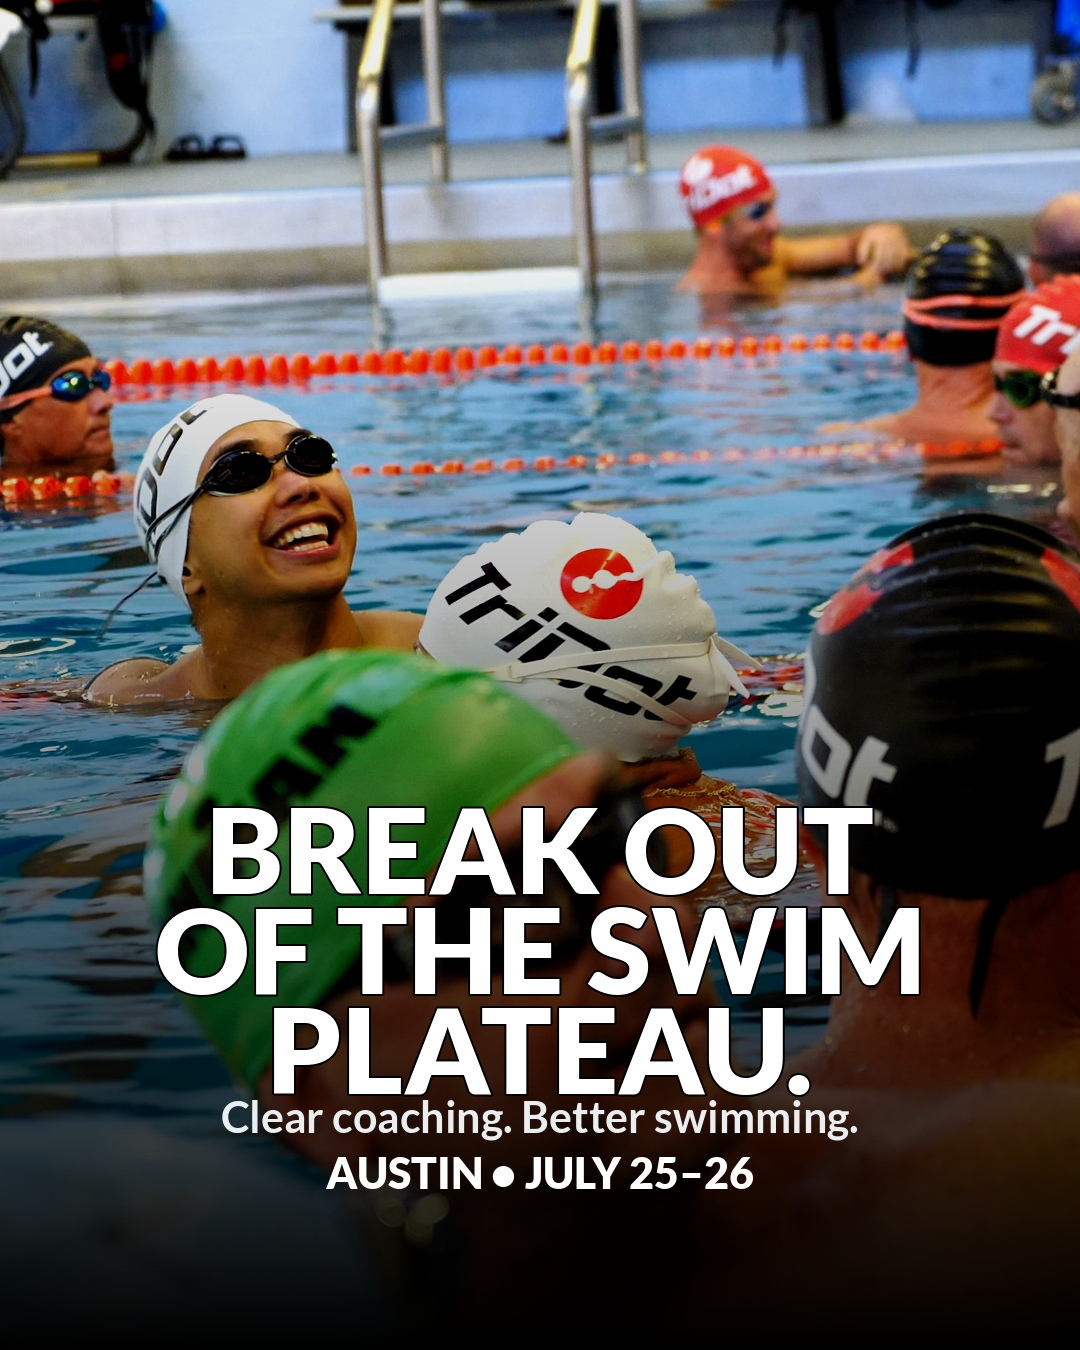
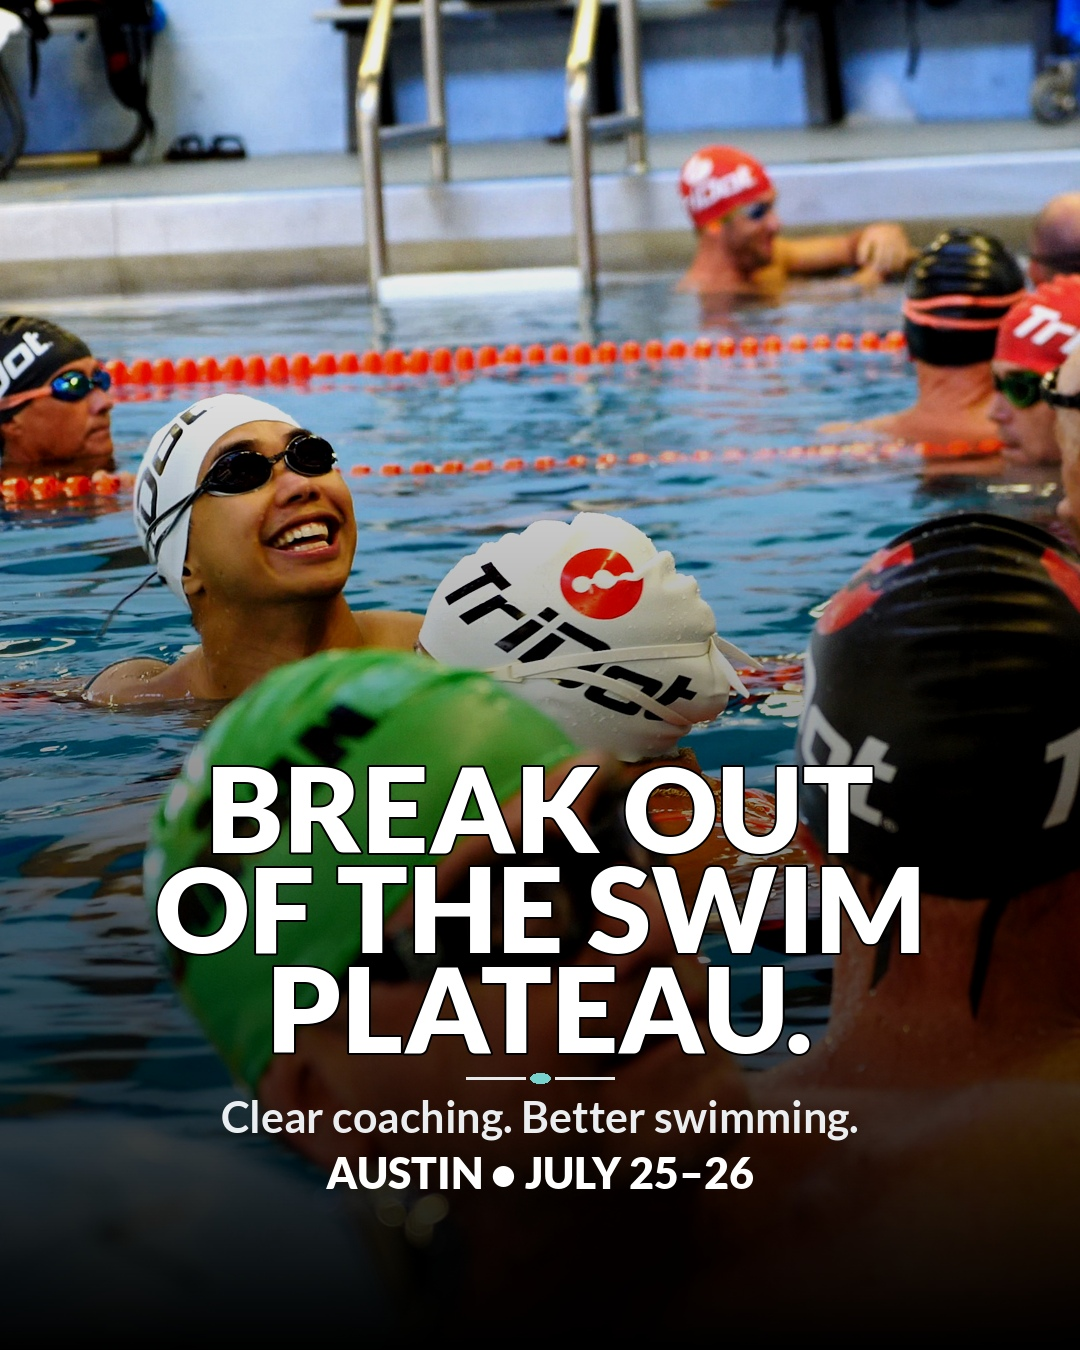
Refine Austin social graphic typography and lane accent

Changed region(s): [[0.1222, 0.56, 0.8556, 0.8089]]

diff --git a/austin-pool-school-review/index.html b/austin-pool-school-review/index.html
@@ -15,5 +15,5 @@ const posts=[
 ['08-detail-matters.jpg','VALUE','The details make the difference','Small technique changes can lead to meaningful progress. Get focused coaching and drills designed to help you apply it back in your own training.'],
 ['09-personal-feedback.jpg','VALUE','Real-time feedback','See it. Understand it. Practice it. Bring your swim questions to Austin and leave with practical tools for your next session.'],
 ['10-austin-register-now.jpg','EVENT PROMO','Austin Pool School: Register now','July 25–26, 2026 · Austin Aquatics and Sports Academy · $599\n\nYour next opportunity to break out of the dreaded swim plateau starts here. Register now.']
-];let i=0;const $=id=>document.getElementById(id);function render(){let p=posts[i];$('title').textContent=`Post ${i+1} of ${posts.length}`;$('graphic').src='./assets/'+p[0]+'?v=compact-dark-20260710';$('headline').textContent=p[2];$('caption').textContent=p[3];$('type').textContent=p[1];$('prev').disabled=i===0;$('next').disabled=i===posts.length-1;$('thumbs').innerHTML=posts.map((x,n)=>`<button class="thumb ${n===i?'active':''}" aria-label="View post ${n+1}" onclick="go(${n})"><img src="./assets/${x[0]}?v=compact-dark-20260710"></button>`).join('')};function go(n){i=n;render()}$('prev').onclick=()=>go(i-1);$('next').onclick=()=>go(i+1);document.addEventListener('keydown',e=>{if(e.key==='ArrowLeft'&&i)go(i-1);if(e.key==='ArrowRight'&&i<posts.length-1)go(i+1)});render();
+];let i=0;const $=id=>document.getElementById(id);function render(){let p=posts[i];$('title').textContent=`Post ${i+1} of ${posts.length}`;$('graphic').src='./assets/'+p[0]+'?v=lane-accent-20260710';$('headline').textContent=p[2];$('caption').textContent=p[3];$('type').textContent=p[1];$('prev').disabled=i===0;$('next').disabled=i===posts.length-1;$('thumbs').innerHTML=posts.map((x,n)=>`<button class="thumb ${n===i?'active':''}" aria-label="View post ${n+1}" onclick="go(${n})"><img src="./assets/${x[0]}?v=lane-accent-20260710"></button>`).join('')};function go(n){i=n;render()}$('prev').onclick=()=>go(i-1);$('next').onclick=()=>go(i+1);document.addEventListener('keydown',e=>{if(e.key==='ArrowLeft'&&i)go(i-1);if(e.key==='ArrowRight'&&i<posts.length-1)go(i+1)});render();
 </script></body></html>
